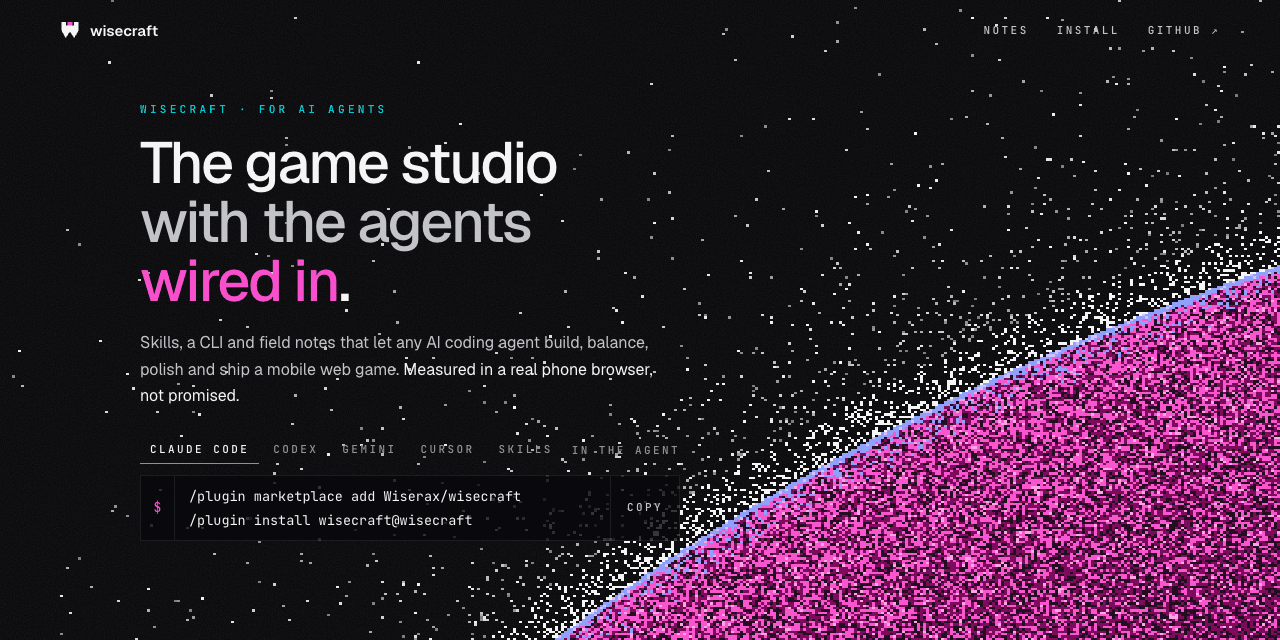
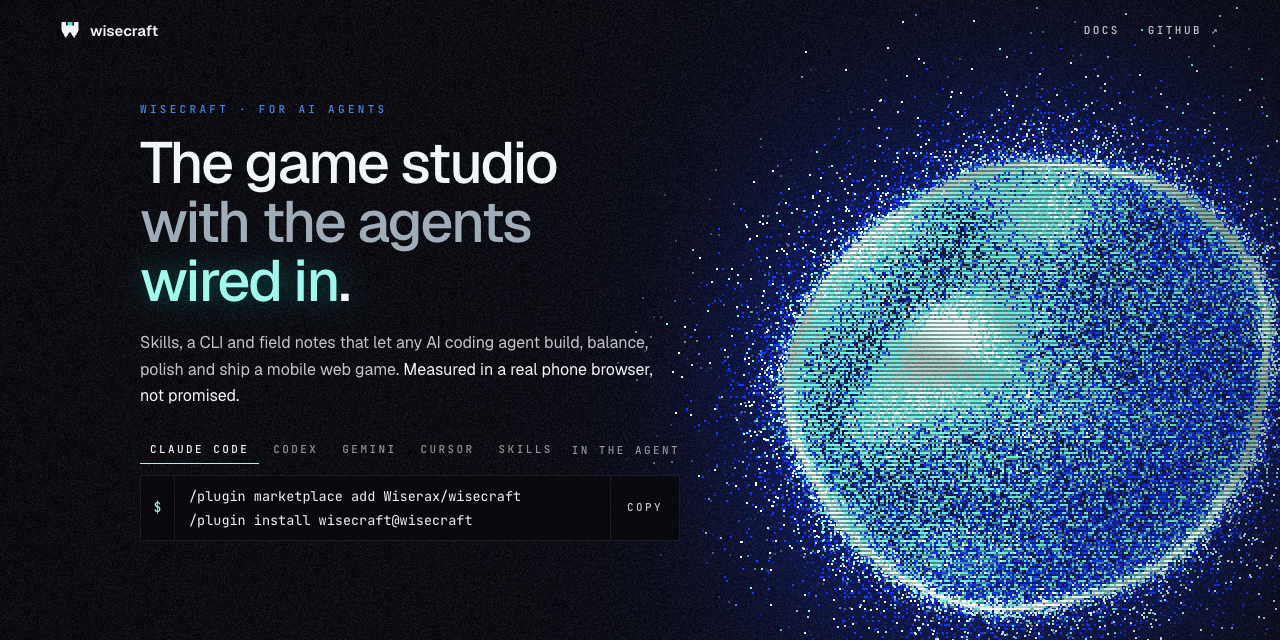
Site hero: an animated liquid sphere on the dithered grid; icy aqua and electric blue; wiserax.dev
The hero is a WebGL2 sphere in 2x2-pixel stipple: it turns slowly, liquid bands ride its surface, a wet
highlight and a travelling glint sit on the rim, and a spray of particles flows off the edge into clean
dark space. Cells re-roll out of step for a constant soft sparkle; scanlines over the ink. It fits itself
to the space the copy leaves free (beside it on wide screens, below it on phones), pauses in hidden tabs
and draws one still frame under reduced motion. README banner re-rendered; website link now wiserax.dev.

diff --git a/docs/site/sphere.js b/docs/site/sphere.js
@@ -1,0 +1,195 @@
+// The hero: a glowing liquid sphere on a dithered pixel grid, with a spray of particles flowing off its rim.
+// WebGL2. One full-screen pass draws the field (2x2-px cells, each picking one of three inks by a staggered random roll),
+// one instanced pass draws the particles. ?t=<frame> freezes time (the README banner uses #banner), window.__fx.render(t)
+// draws one exact frame, and window.__planet counts frames and the average CPU cost of one.
+(() => {
+  const cv = document.getElementById('planet'); if (!cv) return;
+  const gl = cv.getContext('webgl2', { antialias: false, premultipliedAlpha: false });
+  if (!gl) return;
+  const q = new URLSearchParams(location.search), freeze = q.has('t') ? +q.get('t') : location.hash === '#banner' ? 260 : null;
+
+  const COMMON = `#version 300 es
+precision highp float; precision highp int;
+uniform vec2 uRes; uniform float uDpr, uT; uniform vec4 uE; uniform vec2 uK;   // uE: centre.xy, radii.zw; uK: tilt, wide
+const float TAU = 6.2831853;
+uint hh(uint x){ x ^= x >> 17; x *= 0xed5ad4bbu; x ^= x >> 11; x *= 0xac4c1b51u; x ^= x >> 15; x *= 0x31848babu; x ^= x >> 14; return x; }
+float rf(uint x){ return float(hh(x) >> 8) / 16777216.0; }
+vec2 WH(){ return uRes / uDpr; }
+float SC(){ vec2 w = WH(); return sqrt(w.x * w.y) / 1440.0; }
+vec2 R2(vec2 v, float a){ float c = cos(a), s = sin(a); return vec2(c * v.x - s * v.y, s * v.x + c * v.y); }
+// the liquid edge: three slow waves running around the rim
+float wob(float th, float t){ return 1.0 + 0.018 * sin(3.0 * th + t * 0.010) + 0.011 * sin(5.0 * th - t * 0.016) + 0.005 * sin(9.0 * th + t * 0.029); }
+vec2 edge(float th, float t, out vec2 nrm){
+  vec2 r = uE.zw, q = vec2(cos(th), sin(th)) * wob(th, t) * r;
+  nrm = R2(normalize(vec2(cos(th) / r.x, sin(th) / r.y)), uK.x);
+  return uE.xy + R2(q, uK.x);
+}
+// copy column: the haze and the spray thin out over the text on wide screens
+float textMask(vec2 p){ return uK.y > 0.5 ? mix(0.12, 1.0, smoothstep(0.40, 0.62, p.x / WH().x)) : 1.0; }
+float vig(vec2 p){ float n = distance(p, WH() * 0.5) / (1600.0 * SC()); return max(0.2, 1.0 - n * n * n); }
+`;
+
+  const FIELD_VS = `#version 300 es
+void main(){ gl_Position = vec4(gl_VertexID == 1 ? 3.0 : -1.0, gl_VertexID == 2 ? 3.0 : -1.0, 0.0, 1.0); }`;
+
+  const FIELD_FS = COMMON + `
+const vec3 RIM = vec3(0.84, 1.00, 0.97), MID = vec3(0.45, 0.96, 0.93), DEEP = vec3(0.06, 0.20, 1.00), BLK = vec3(0.016, 0.018, 0.045);
+const vec3 LIGHT = vec3(-0.50, -0.62, 0.60);
+out vec4 o;
+float ramp(float d, float l){ return min(1.0, d / l); }
+void main(){
+  float s = SC(), t = uT;
+  vec2 dev = vec2(gl_FragCoord.x, uRes.y - gl_FragCoord.y);
+  float grain = (rf(uint(dev.y) * uint(uRes.x) + uint(dev.x) ^ 0x51f15e3du) - 0.5) * (22.0 / 255.0);
+  vec2 cell = floor(dev * 0.5) * 2.0, p = (cell + 1.0) / uDpr;
+  float shade = vig(p);
+  vec3 base = max(BLK * vig(dev / uDpr) + grain, 0.0);
+
+  vec2 lq = R2(p - uE.xy, -uK.x), n = lq / uE.zw;
+  float th = atan(n.y, n.x), w = wob(th, t), sd = (length(n) - w) * min(uE.z, uE.w);
+  float pr = 0.0, pm = 0.0, pd = 0.0, glow = 0.0;
+  float glim = 1.0 + 0.18 * sin(th * 6.0 - t * 0.021) + 0.55 * pow(0.5 + 0.5 * cos(th + 2.3 - t * 0.017), 10.0);
+  bool solid = abs(sd) < 2.5 * s;
+
+  if (!solid && sd < 0.0) {
+    // inside: shade it as a sphere that slowly turns; liquid caustics ride on its surface
+    vec2 m = n / w; float z = sqrt(max(0.0, 1.0 - dot(m, m)));
+    vec3 N = vec3(m, z), L = normalize(LIGHT);
+    float lit = clamp(dot(N, L) * 1.05 + 0.08, 0.0, 1.0);
+    float lon = atan(m.x, max(z, 1e-3)) + t * 0.0018, lat = asin(clamp(m.y, -1.0, 1.0));
+    float caus = 0.5 + 0.5 * sin(lon * 4.2 + 2.3 * sin(lat * 3.6 + t * 0.0072) - t * 0.0046);
+    caus *= 0.6 + 0.4 * sin(lat * 6.5 - 1.7 * sin(lon * 2.7 - t * 0.0058) + t * 0.0078);
+    float spec = pow(max(0.0, dot(reflect(-L, N), vec3(0.0, 0.0, 1.0))), 22.0);
+    float fres = pow(1.0 - z, 3.0), dp = -sd;
+    pr = exp(-dp / (7.0 * s)) + 0.6 * lit * lit * caus + 0.9 * spec;
+    pm = (mix(0.32, 0.92, lit) * (0.6 + 0.4 * caus) + 0.25 * fres) * ramp(dp, 4.0 * s);
+    pd = 0.12 + 0.40 * (1.0 - lit);
+    glow = 0.22;
+  } else if (!solid) {
+    float d = sd;
+    // a thin stippled corona and a smooth bloom; the space beyond stays dark so the spray reads
+    pr = exp(-d / (7.0 * s)) * 0.85; pm = exp(-d / (16.0 * s)) * 0.45 * ramp(d, 3.0 * s); pd = exp(-d / (38.0 * s)) * ramp(d, 6.0 * s) * 0.6;
+    glow = 0.30 * exp(-d / (190.0 * s));
+    float mk = textMask(p); pm *= mk; pd *= mk; pr *= mix(0.3, 1.0, mk); glow *= mk;
+  }
+  base += DEEP * glow * shade;
+
+  vec3 ink = vec3(0.0); bool on = false;
+  if (solid) { ink = RIM * shade * glim; on = true; }
+  else {
+    float total = min(1.0, pr + pm + pd);
+    if (total > 0.003) {
+      // each cell keeps its roll for 90 frames; the cells re-roll out of step, so the grain sparkles without flashing
+      uint cols = uint(ceil(uRes.x * 0.5)), ci = uint(cell.y * 0.5) * cols + uint(cell.x * 0.5);
+      uint bucket = hh(ci ^ 0x1b873593u) % 90u, fr = uint(max(0.0, floor(t)));
+      float r = rf(ci ^ (((fr + 89u - bucket) / 90u) * 0x9e3779b1u) ^ 0x7a11c0deu);
+      if (r < pr) { ink = RIM * shade * glim; on = true; }
+      else if (r < pr + pm) { ink = MID * shade; on = true; }
+      else if (r < total) { ink = DEEP * shade; on = true; }
+    }
+  }
+  float scan = mod(floor(dev.y * 0.5), 2.0) < 1.0 ? 1.0 : 0.58;     // CRT scanlines over the ink
+  o = vec4(on ? max(ink * scan + grain, 0.0) : base, 1.0);
+}`;
+
+  const PART_VS = COMMON + `
+out float vA; out vec3 vC;
+void main(){
+  uint sd = hh(uint(gl_VertexID) ^ 0x2545f491u);
+  float u1 = rf(sd), u2 = rf(sd ^ 0x68e31da4u), u3 = rf(sd ^ 0xb5297a4du), u4 = rf(sd ^ 0x1b56c4e9u),
+        u5 = rf(sd ^ 0x7fb5d329u), u6 = rf(sd ^ 0xd2a98b26u), u7 = rf(sd ^ 0x3c6ef372u);
+  float s = SC(), t = uT;
+  // every particle loops forever: born on the rim, drifts out, fades; most stay close (cube-root bias)
+  float th = u1 * TAU;
+  float md = max(440.0 * s * (1.0 - pow(u2, 1.0 / 3.0)), 18.0 * s);
+  float sp = (0.19 + 0.17 * u3) * s, dp = mod(t * sp + u4 * md, md);
+  vec2 nrm, e = edge(th, t, nrm), tg = vec2(-nrm.y, nrm.x);
+  float f = 0.004 + 0.011 * u5, k = dp / (dp + 40.0 * s);
+  vec2 p;
+  if (u7 < 0.10) {                                   // a few glints slide in over the surface
+    p = e - nrm * dp * 0.35 + tg * dp * 0.2;
+  } else {
+    p = e + nrm * dp                                  // out from the rim
+      + tg * (dp * 0.28 + 9.0 * s * sin(t * f + u6 * TAU) * k)   // flung round with the spin, swaying
+      - vec2(0.0, dp * dp / (md + 1.0) * 0.18);      // and lifting a little as it goes
+  }
+  float a = max(0.0, min(dp / (9.0 * s), (md - dp) / (md * 0.25)));
+  if (u7 < 0.10) a *= 0.7;
+  a *= textMask(p);
+  vA = a;
+  vC = (u6 > 0.80 ? vec3(0.55, 0.98, 0.95) : (u6 < 0.06 ? vec3(0.35, 0.5, 1.0) : vec3(0.93, 1.0, 0.99))) * vig(p);
+  vec2 w = WH();
+  gl_Position = vec4(p.x / w.x * 2.0 - 1.0, 1.0 - p.y / w.y * 2.0, 0.0, 1.0);
+  gl_PointSize = 2.0;
+}`;
+  const PART_FS = `#version 300 es
+precision highp float; in float vA; in vec3 vC; out vec4 o; void main(){ o = vec4(vC, vA); }`;
+
+  const prog = (vs, fs) => {
+    const p = gl.createProgram();
+    for (const [type, src] of [[gl.VERTEX_SHADER, vs], [gl.FRAGMENT_SHADER, fs]]) {
+      const sh = gl.createShader(type); gl.shaderSource(sh, src); gl.compileShader(sh);
+      if (!gl.getShaderParameter(sh, gl.COMPILE_STATUS)) throw new Error(gl.getShaderInfoLog(sh));
+      gl.attachShader(p, sh);
+    }
+    gl.linkProgram(p); if (!gl.getProgramParameter(p, gl.LINK_STATUS)) throw new Error(gl.getProgramInfoLog(p));
+    return p;
+  };
+  const field = prog(FIELD_VS, FIELD_FS), parts = prog(PART_VS, PART_FS);
+  gl.bindVertexArray(gl.createVertexArray());
+  const loc = (p) => Object.fromEntries(['uRes', 'uDpr', 'uT', 'uE', 'uK'].map((n) => [n, gl.getUniformLocation(p, n)]));
+  const L = new Map([[field, loc(field)], [parts, loc(parts)]]);
+
+  let E = [0, 0, 1, 1], K = [0, 0], N = 0, dpr = 1;
+  const geom = () => {
+    const hero = cv.parentElement, W = hero.clientWidth, H = hero.clientHeight;
+    dpr = Math.min(devicePixelRatio || 1, 1.5);
+    cv.width = Math.round(W * dpr); cv.height = Math.round(H * dpr);
+    // fit the sphere into the space the copy leaves free: right of it on wide screens, below it on phones
+    const hb = hero.getBoundingClientRect(); let right = 0, bottom = 0;
+    const take = (r) => { if (r.width) { right = Math.max(right, r.right - hb.left); bottom = Math.max(bottom, r.bottom - hb.top); } };
+    for (const el of hero.children) {
+      if (el === cv) continue;
+      // text blocks span the whole column, so measure the text itself (each text node), and boxed parts by their box
+      if (el.matches('.install')) { take(el.getBoundingClientRect()); continue; }
+      const walk = document.createTreeWalker(el, NodeFilter.SHOW_TEXT), rg = document.createRange();
+      for (let n = walk.nextNode(); n; n = walk.nextNode()) if (n.textContent.trim()) { rg.selectNodeContents(n); take(rg.getBoundingClientRect()); }
+      for (const svg of el.querySelectorAll('svg,img')) take(svg.getBoundingClientRect());
+    }
+    const wide = W >= H * 1.1 && W >= 900;
+    if (wide) {
+      const a = Math.min(0.19 * W, 0.285 * Math.sqrt(W * H)), b = Math.min(0.34 * H, 1.12 * a);
+      const cx = Math.max(W - Math.max(0.185 * W, 1.02 * a), right + 44 + Math.max(a, b));
+      E = [cx, 0.60 * H, a, b]; K = [-0.42, 1];
+    } else {
+      const r = 0.40 * W;
+      E = [0.64 * W, Math.max(bottom + 36 + r * 1.02, H - r * 1.1), r, r * 1.02]; K = [-0.3, 0];
+    }
+    N = Math.round(0.0034 * W * H);
+    gl.viewport(0, 0, cv.width, cv.height);
+  };
+  const set = (p, t) => {
+    const u = L.get(p); gl.useProgram(p);
+    gl.uniform2f(u.uRes, cv.width, cv.height); gl.uniform1f(u.uDpr, dpr); gl.uniform1f(u.uT, t);
+    gl.uniform4fv(u.uE, E); gl.uniform2fv(u.uK, K);
+  };
+  const stats = (window.__planet = { frames: 0, ms: 0 });
+  const render = (t) => {
+    const t0 = performance.now();
+    gl.disable(gl.BLEND); set(field, t); gl.drawArrays(gl.TRIANGLES, 0, 3);
+    gl.enable(gl.BLEND); gl.blendFunc(gl.SRC_ALPHA, gl.ONE_MINUS_SRC_ALPHA); set(parts, t); gl.drawArrays(gl.POINTS, 0, N);
+    stats.ms += (performance.now() - t0 - stats.ms) / ++stats.frames;
+  };
+
+  geom();
+  const T0 = 190;                                     // start mid-flow, never on an empty first frame
+  const still = freeze !== null || matchMedia('(prefers-reduced-motion: reduce)').matches;
+  let raf = 0, last = 0, clock = 0;
+  const loop = (now) => { clock += Math.min(50, now - (last || now)) * 0.06; last = now; render(T0 + clock); raf = requestAnimationFrame(loop); };
+  const start = () => { if (still) render(freeze ?? T0); else if (!raf) { last = 0; raf = requestAnimationFrame(loop); } };
+  const stop = () => { cancelAnimationFrame(raf); raf = 0; };
+  document.addEventListener('visibilitychange', () => (document.hidden ? stop() : start()));
+  let rt; addEventListener('resize', () => { clearTimeout(rt); rt = setTimeout(() => { geom(); if (still || !raf) render(T0 + clock); }, 120); });
+  start();
+  window.__fx = { render: (t) => { stop(); render(t); } };
+})();

diff --git a/docs/site/index.html b/docs/site/index.html
@@ -10,7 +10,7 @@
 <link rel="preconnect" href="https://fonts.googleapis.com"><link rel="preconnect" href="https://fonts.gstatic.com" crossorigin><link href="https://fonts.googleapis.com/css2?family=Geist:wght@400;500;600&family=JetBrains+Mono:wght@400;500&display=swap" rel="stylesheet">
 <style>
 :root{--bg:#050507;--ink-1:#0a0a0c;--ink-5:oklch(50% .008 280);--ink-6:oklch(66% .006 280);--ink-7:oklch(82% .005 280);--ink-9:oklch(97% 0 0);
---accent:oklch(84% .13 195);--accent-deep:oklch(47% .08 215);--rim:oklch(88% .06 230);--dim:oklch(56% .06 195);--line:oklch(100% 0 0/.08);--line-2:oklch(100% 0 0/.14);--before:oklch(100% 0 0/.16);
+--accent:oklch(92% .085 185);--accent-deep:oklch(50% .27 266);--rim:oklch(95% .05 190);--dim:oklch(62% .16 262);--line:oklch(100% 0 0/.08);--line-2:oklch(100% 0 0/.14);--before:oklch(100% 0 0/.16);
 --sans:"Geist",ui-sans-serif,system-ui,sans-serif;--mono:"JetBrains Mono",ui-monospace,SFMono-Regular,Menlo,monospace}
 *,*:before,*:after{box-sizing:border-box;margin:0;padding:0}
 html{background:var(--bg);color:var(--ink-7);font:16px/1.6 var(--sans);-webkit-font-smoothing:antialiased;scroll-behavior:smooth}
@@ -30,7 +30,7 @@ nav .links a:hover{color:var(--ink-9)}
 .hero>*:not(canvas){position:relative;z-index:10;min-width:0}
 .eyebrow{font:500 11px/1 var(--mono);letter-spacing:.3em;color:var(--dim);text-transform:uppercase}
 h1{margin-top:22px;font:500 clamp(40px,4.75vw,68px)/1.02 var(--sans);letter-spacing:-.035em;color:oklch(97% .006 220)}
-h1 span{display:block}h1 .l2{color:oklch(74% .024 245)}h1 .l3{color:var(--accent)}h1 .l3 i{font-style:normal;color:oklch(97% .006 220)}
+h1 span{display:block}h1 .l2{color:oklch(74% .024 245)}h1 .l3{color:var(--accent);text-shadow:0 0 28px oklch(80% .14 190/.35)}h1 .l3 i{font-style:normal;color:oklch(97% .006 220)}
 .sub{margin-top:30px;max-width:540px;font-size:17px;line-height:1.65;color:var(--ink-7)}.sub b{font-weight:400;color:var(--ink-9)}
 .install{margin-top:40px;max-width:640px;min-width:0}
 .tabs{display:flex;align-items:flex-end;gap:4px;border-bottom:1px solid transparent}
@@ -93,7 +93,8 @@ footer a{color:var(--ink-7)}footer a:hover{color:var(--ink-9)}
 a:focus-visible,button:focus-visible,summary:focus-visible{outline:1px solid var(--rim);outline-offset:2px}
 @media (max-width:600px){.cmd code{white-space:normal;overflow-wrap:anywhere}}
 @media (max-width:900px){nav,.hero,section,footer{padding-left:22px;padding-right:22px}.tabs button{white-space:nowrap}.cmd code{font-size:12.5px}h1{font-size:clamp(38px,11vw,56px)}.g5,.g4{grid-template-columns:repeat(2,1fr)}.g3{grid-template-columns:1fr}.row{grid-template-columns:1fr}.delta{text-align:left}.frames{grid-template-columns:repeat(2,1fr)}
-.hero{padding-top:120px;padding-bottom:230px}nav .links a.hide{display:none}.tabs{overflow-x:auto}.tabs .right{display:none}td{display:block;border:0;padding:0 0 12px}td:first-child{padding-top:12px;border-top:1px solid var(--line);white-space:normal;word-break:break-word}table{border-top:0;border-bottom:1px solid var(--line)}section{padding-top:72px;padding-bottom:72px}}
+.hero{padding-top:120px;padding-bottom:calc(84vw + 56px)}nav .links a.hide{display:none}.tabs{overflow-x:auto}.tabs .right{display:none}td{display:block;border:0;padding:0 0 12px}td:first-child{padding-top:12px;border-top:1px solid var(--line);white-space:normal;word-break:break-word}table{border-top:0;border-bottom:1px solid var(--line)}section{padding-top:72px;padding-bottom:72px}}
+@media (min-width:901px) and (max-aspect-ratio:11/10){.hero{padding-bottom:calc(60vw + 56px)}}
 html.banner .hero{min-height:640px;height:640px;padding:104px 140px 0}html.banner nav{padding:20px 60px}html.banner h1{font-size:58px;margin-top:18px}html.banner .sub{margin-top:20px;font-size:16px}
 html.banner .install{margin-top:26px;max-width:540px}html.banner .compat,html.banner .rail,html.banner section,html.banner footer{display:none}
 @media (prefers-reduced-motion:reduce){html{scroll-behavior:auto}*{transition:none!important;animation:none!important}}
@@ -169,22 +170,6 @@ html.banner .install{margin-top:26px;max-width:540px}html.banner .compat,html.ba
 <script>
 (()=>{
 if(location.hash==='#banner')document.documentElement.classList.add('banner');
-// the planet: a dithered arc and stippled particles, drawn once on a coarse pixel grid from a seeded generator
-const cv=document.getElementById('planet');if(cv){
-const draw=()=>{const hero=cv.parentElement,W=hero.clientWidth,H=hero.clientHeight,px=3,cw=Math.ceil(W/px),chh=Math.ceil(H/px);
-cv.width=cw;cv.height=chh;cv.style.imageRendering='pixelated';const g=cv.getContext('2d'),im=g.createImageData(cw,chh),d=im.data;
-let s=20261012;const rnd=()=>{s=(s+0x6D2B79F5)|0;let t=Math.imul(s^(s>>>15),1|s);t=(t+Math.imul(t^(t>>>7),61|t))^t;return((t^(t>>>14))>>>0)/4294967296};
-const wide=W>=700,R=(wide?W*1.9:H*.62)/px,cx=(wide?W*1.74:W*1.05)/px,cy=(wide?H*.176+W*1.9:H*1.42)/px,fall=wide?1:.55;
-const put=(i,r,gg,b,a)=>{d[i]=r;d[i+1]=gg;d[i+2]=b;d[i+3]=a};
-for(let y=0;y<chh;y++)for(let x=0;x<cw;x++){const dist=Math.hypot(x-cx,y-cy)-R,i=(y*cw+x)*4;
-if(dist<0){const depth=-dist*px;                       // inside: a thin blue rim, then mottled magenta thinning into the dark
-if(depth<6){rnd()<.82?put(i,140,156,251,255):put(i,205,190,255,255)}
-else{const lum=.5*Math.max(0,1-depth/(H*.95))+(rnd()-.5)*.26,r=rnd();
-if(depth<46&&rnd()<.3*(1-depth/46))put(i,140,156,251,255);
-else r<lum?(rnd()<.12?put(i,255,160,228,255):put(i,248,79,204,255)):(rnd()<.55?put(i,119,2,85,255):put(i,26,4,24,255))}}
-else{const far=dist*px,p=.3*Math.exp(-far/(45*fall))+.035*Math.exp(-far/(170*fall))+.0005;if(rnd()<p)put(i,245,245,245,far<50?255:120+rnd()*135)}}
-g.putImageData(im,0,0)};
-draw();let t;addEventListener('resize',()=>{clearTimeout(t);t=setTimeout(draw,150)})}
 // install tabs
 const tabs=[...document.querySelectorAll('.tabs button')],out=document.querySelector('#cmd code'),note=document.querySelector('.tabs .right');
 const show=b=>{tabs.forEach(x=>x.setAttribute('aria-selected',x===b));out.innerHTML=b.dataset.cmd.split('|').map(l=>'<span>'+l.replace(/&/g,'&amp;').replace(/</g,'&lt;')+'</span>').join('');out.dataset.copy=b.dataset.cmd.split('|').join('\n');if(note)note.textContent=b.dataset.note||''};
@@ -198,5 +183,6 @@ const links=[...document.querySelectorAll('.rail a')];if('IntersectionObserver'i
 document.querySelectorAll('section[id]').forEach(s=>io.observe(s))}
 })();
 </script>
+<script src="sphere.js"></script>
 </body>
 </html>

diff --git a/README.md b/README.md
@@ -18,7 +18,7 @@
   <img src="docs/media/teaser.gif" alt="Moments from a game shipped with wisecraft: a double-size boss looming over the fort, a horde of thousands, a titan slamming the walls, a blade sweeping through the crowd, the boss dying, then the wisecraft tile." width="560">
 </p>
 
-<p align="center"><b>Website:</b> <a href="https://wiserax.github.io/wisecraft/">wiserax.github.io/wisecraft</a></p>
+<p align="center"><b>Website:</b> <a href="https://wiserax.dev/wisecraft/">wiserax.dev/wisecraft</a></p>
 
 <p align="center"><b>Coming next: harder real-game benchmarks and more field notes.</b></p>
 
